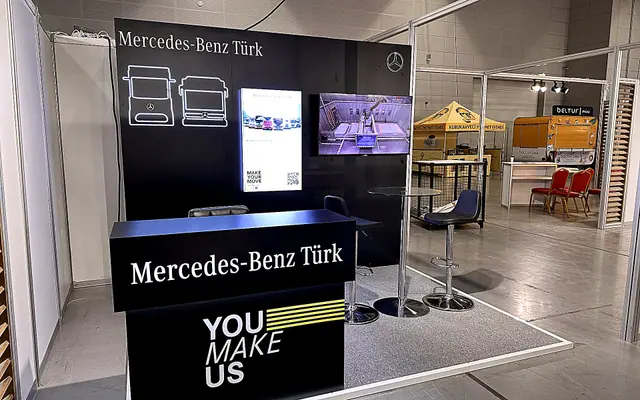
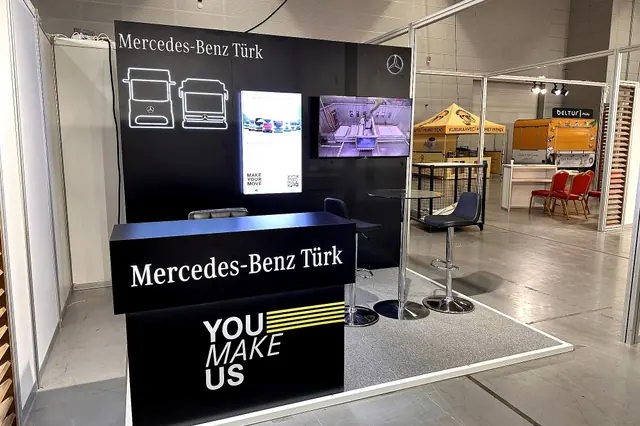
Dardanel ve Mercedes fotograflari yenilendi: aciliş gunu Dardanel kareleri ve orijinal 12 MP Mercedes kareleri, hafif rotus

diff --git a/proje-mercedes.html b/proje-mercedes.html
@@ -47,15 +47,18 @@
           <div class="pp-main" data-pp-main>
             <picture><source type="image/webp" srcset="/assets/images/opt/mercedes-benz-hero-640.webp 640w, /assets/images/opt/mercedes-benz-hero-1024.webp 1024w, /assets/images/opt/mercedes-benz-hero-1600.webp 1600w" sizes="(min-width: 1024px) 70vw, 100vw"><img src="/assets/images/projects/mercedes-benz-hero.jpg" alt="Mercedes-Benz Türk — Özel Etkinlik ve Deneyim Standı" width="1920" height="1200" fetchpriority="high" decoding="async"></picture>
           </div>
-          <div class="pp-thumbs" style="--n:3" role="group" aria-label="Proje görselleri">
+          <div class="pp-thumbs" style="--n:4" role="group" aria-label="Proje görselleri">
             <button type="button" class="pp-thumb" data-pp-thumb aria-label="Görsel 1: Mercedes-Benz Türk — Özel Etkinlik ve Deneyim Standı" aria-pressed="true" data-src="/assets/images/projects/mercedes-benz-hero.jpg" data-alt="Mercedes-Benz Türk — Özel Etkinlik ve Deneyim Standı" data-index="01">
               <picture><source type="image/webp" srcset="/assets/images/opt/mercedes-benz-hero-640.webp 640w, /assets/images/opt/mercedes-benz-hero-1024.webp 1024w, /assets/images/opt/mercedes-benz-hero-1600.webp 1600w" sizes="(min-width: 1024px) 15vw, 25vw"><img src="/assets/images/projects/mercedes-benz-hero.jpg" alt="" width="1920" height="1200" loading="lazy" decoding="async"></picture>
             </button>
-            <button type="button" class="pp-thumb" data-pp-thumb aria-label="Görsel 2: Özel İmalat Danışma ve Görüşme Bankoları" aria-pressed="false" data-src="/assets/images/projects/mercedes-benz-gallery-2.jpg" data-alt="Özel İmalat Danışma ve Görüşme Bankoları" data-index="02">
+            <button type="button" class="pp-thumb" data-pp-thumb aria-label="Görsel 2: Mercedes-Benz Türk standı, karşılama bankosu" aria-pressed="false" data-src="/assets/images/projects/mercedes-benz-gallery-2.jpg" data-alt="Mercedes-Benz Türk standı, karşılama bankosu" data-index="02">
               <picture><source type="image/webp" srcset="/assets/images/opt/mercedes-benz-gallery-2-640.webp 640w, /assets/images/opt/mercedes-benz-gallery-2-1024.webp 1024w, /assets/images/opt/mercedes-benz-gallery-2-1600.webp 1600w" sizes="(min-width: 1024px) 20vw, 33vw"><img src="/assets/images/projects/mercedes-benz-gallery-2.jpg" alt="" width="1920" height="1200" loading="lazy" decoding="async"></picture>
             </button>
-            <button type="button" class="pp-thumb" data-pp-thumb aria-label="Görsel 3: Akustik Bölme ve Mimari Aydınlatma Detayları" aria-pressed="false" data-src="/assets/images/projects/mercedes-benz-gallery-3.jpg" data-alt="Akustik Bölme ve Mimari Aydınlatma Detayları" data-index="03">
+            <button type="button" class="pp-thumb" data-pp-thumb aria-label="Görsel 3: Mercedes-Benz Türk standı, yan görünüm" aria-pressed="false" data-src="/assets/images/projects/mercedes-benz-gallery-3.jpg" data-alt="Mercedes-Benz Türk standı, yan görünüm" data-index="03">
               <picture><source type="image/webp" srcset="/assets/images/opt/mercedes-benz-gallery-3-640.webp 640w, /assets/images/opt/mercedes-benz-gallery-3-1024.webp 1024w, /assets/images/opt/mercedes-benz-gallery-3-1600.webp 1600w" sizes="(min-width: 1024px) 20vw, 33vw"><img src="/assets/images/projects/mercedes-benz-gallery-3.jpg" alt="" width="1920" height="1200" loading="lazy" decoding="async"></picture>
+            </button>
+            <button type="button" class="pp-thumb" data-pp-thumb aria-label="Görsel 4: Mercedes-Benz Türk standı, önden görünüm" aria-pressed="false" data-src="/assets/images/projects/mercedes-benz-gallery-4.jpg" data-alt="Mercedes-Benz Türk standı, önden görünüm" data-index="04">
+              <picture><source type="image/webp" srcset="/assets/images/opt/mercedes-benz-gallery-4-640.webp 640w, /assets/images/opt/mercedes-benz-gallery-4-1024.webp 1024w, /assets/images/opt/mercedes-benz-gallery-4-1600.webp 1600w" sizes="(min-width: 1024px) 20vw, 33vw"><img src="/assets/images/projects/mercedes-benz-gallery-4.jpg" alt="" width="1920" height="1200" loading="lazy" decoding="async"></picture>
             </button>
           </div>
           <div class="pp-cta">

diff --git a/proje-dardanel.html b/proje-dardanel.html
@@ -47,15 +47,18 @@
           <div class="pp-main" data-pp-main>
             <picture><source type="image/webp" srcset="/assets/images/opt/dardanel-gallery-3-640.webp 640w, /assets/images/opt/dardanel-gallery-3-1024.webp 1024w, /assets/images/opt/dardanel-gallery-3-1600.webp 1600w" sizes="(min-width: 1024px) 70vw, 100vw"><img src="/assets/images/projects/dardanel-gallery-3.jpg" alt="Dardanel — WorldFood Fuar Standı &amp; Tadım İstasyonu" width="1920" height="1200" fetchpriority="high" decoding="async"></picture>
           </div>
-          <div class="pp-thumbs" style="--n:3" role="group" aria-label="Proje görselleri">
+          <div class="pp-thumbs" style="--n:4" role="group" aria-label="Proje görselleri">
             <button type="button" class="pp-thumb" data-pp-thumb aria-label="Görsel 1: Dardanel — WorldFood Fuar Standı &amp; Tadım İstasyonu" aria-pressed="true" data-src="/assets/images/projects/dardanel-gallery-3.jpg" data-alt="Dardanel — WorldFood Fuar Standı &amp; Tadım İstasyonu" data-index="01">
               <picture><source type="image/webp" srcset="/assets/images/opt/dardanel-gallery-3-640.webp 640w, /assets/images/opt/dardanel-gallery-3-1024.webp 1024w, /assets/images/opt/dardanel-gallery-3-1600.webp 1600w" sizes="(min-width: 1024px) 15vw, 25vw"><img src="/assets/images/projects/dardanel-gallery-3.jpg" alt="" width="1920" height="1200" loading="lazy" decoding="async"></picture>
             </button>
-            <button type="button" class="pp-thumb" data-pp-thumb aria-label="Görsel 2: Işıklı Pleksi Teşhir Duvarları" aria-pressed="false" data-src="/assets/images/projects/dardanel-gallery-2.jpg" data-alt="Işıklı Pleksi Teşhir Duvarları" data-index="02">
+            <button type="button" class="pp-thumb" data-pp-thumb aria-label="Görsel 2: Dardanel standı, karşılama bankosu ve oturma alanı" aria-pressed="false" data-src="/assets/images/projects/dardanel-gallery-2.jpg" data-alt="Dardanel standı, karşılama bankosu ve oturma alanı" data-index="02">
               <picture><source type="image/webp" srcset="/assets/images/opt/dardanel-gallery-2-640.webp 640w, /assets/images/opt/dardanel-gallery-2-1024.webp 1024w, /assets/images/opt/dardanel-gallery-2-1600.webp 1600w" sizes="(min-width: 1024px) 20vw, 33vw"><img src="/assets/images/projects/dardanel-gallery-2.jpg" alt="" width="1920" height="1200" loading="lazy" decoding="async"></picture>
             </button>
-            <button type="button" class="pp-thumb" data-pp-thumb aria-label="Görsel 3: Karşılama Bankosu ve Genel Görünüm" aria-pressed="false" data-src="/assets/images/projects/dardanel-gallery-4.jpg" data-alt="Karşılama Bankosu ve Genel Görünüm" data-index="03">
+            <button type="button" class="pp-thumb" data-pp-thumb aria-label="Görsel 3: Dardanel standı, köşe görünüm" aria-pressed="false" data-src="/assets/images/projects/dardanel-gallery-4.jpg" data-alt="Dardanel standı, köşe görünüm" data-index="03">
               <picture><source type="image/webp" srcset="/assets/images/opt/dardanel-gallery-4-640.webp 640w, /assets/images/opt/dardanel-gallery-4-1024.webp 1024w, /assets/images/opt/dardanel-gallery-4-1600.webp 1600w" sizes="(min-width: 1024px) 20vw, 33vw"><img src="/assets/images/projects/dardanel-gallery-4.jpg" alt="" width="1920" height="1200" loading="lazy" decoding="async"></picture>
+            </button>
+            <button type="button" class="pp-thumb" data-pp-thumb aria-label="Görsel 4: Dardanel standı, koridordan görünüm" aria-pressed="false" data-src="/assets/images/projects/dardanel-gallery-1.jpg" data-alt="Dardanel standı, koridordan görünüm" data-index="04">
+              <picture><source type="image/webp" srcset="/assets/images/opt/dardanel-gallery-1-640.webp 640w, /assets/images/opt/dardanel-gallery-1-1024.webp 1024w, /assets/images/opt/dardanel-gallery-1-1600.webp 1600w" sizes="(min-width: 1024px) 20vw, 33vw"><img src="/assets/images/projects/dardanel-gallery-1.jpg" alt="" width="1920" height="1200" loading="lazy" decoding="async"></picture>
             </button>
           </div>
           <div class="pp-cta">

diff --git a/src/js/projects.js b/src/js/projects.js
@@ -41,8 +41,9 @@ export const projectData = {
       { step: '03 / SAHA TESLİMİ', title: 'Eksiksiz Gastronomi Standı', desc: 'Havalandırma ve pişirme donanımları test edilerek açılış saatinde tam kapasite hazır hale getirildi.' }
     ],
     gallery: [
-      { src: '/assets/images/projects/dardanel-gallery-2.jpg', caption: 'Işıklı Pleksi Teşhir Duvarları' },
-      { src: '/assets/images/projects/dardanel-gallery-4.jpg', caption: 'Karşılama Bankosu ve Genel Görünüm' }
+      { src: '/assets/images/projects/dardanel-gallery-2.jpg', caption: 'Dardanel standı, karşılama bankosu ve oturma alanı' },
+      { src: '/assets/images/projects/dardanel-gallery-4.jpg', caption: 'Dardanel standı, köşe görünüm' },
+      { src: '/assets/images/projects/dardanel-gallery-1.jpg', caption: 'Dardanel standı, koridordan görünüm' }
     ]
   },
   mercedes: {
@@ -63,8 +64,9 @@ export const projectData = {
       { step: '03 / SAHA TESLİMİ', title: 'Hızlı ve Sessiz Kurulum', desc: 'Etkinlik mekanında gece vardiyasında kusursuz montaj tamamlanarak sabah lansmana hazır edildi.' }
     ],
     gallery: [
-      { src: '/assets/images/projects/mercedes-benz-gallery-2.jpg', caption: 'Özel İmalat Danışma ve Görüşme Bankoları' },
-      { src: '/assets/images/projects/mercedes-benz-gallery-3.jpg', caption: 'Akustik Bölme ve Mimari Aydınlatma Detayları' }
+      { src: '/assets/images/projects/mercedes-benz-gallery-2.jpg', caption: 'Mercedes-Benz Türk standı, karşılama bankosu' },
+      { src: '/assets/images/projects/mercedes-benz-gallery-3.jpg', caption: 'Mercedes-Benz Türk standı, yan görünüm' },
+      { src: '/assets/images/projects/mercedes-benz-gallery-4.jpg', caption: 'Mercedes-Benz Türk standı, önden görünüm' }
     ]
   }
 };

diff --git a/index.html b/index.html
@@ -81,7 +81,7 @@
         </a>
         <a class="cpanel" href="/proje-dardanel.html">
           <div class="cpanel__inner">
-            <div class="cpanel__media"><picture><source type="image/webp" srcset="/assets/images/opt/dardanel-gallery-4-640.webp 640w, /assets/images/opt/dardanel-gallery-4-1024.webp 1024w, /assets/images/opt/dardanel-gallery-4-1600.webp 1600w" sizes="100vw"><img src="/assets/images/projects/dardanel-gallery-4.jpg" alt="Dardanel standının kırmızı alınlıklı teşhir alanı" width="1920" height="1200" loading="lazy" decoding="async"></picture></div>
+            <div class="cpanel__media"><picture><source type="image/webp" srcset="/assets/images/opt/dardanel-gallery-4-640.webp 640w, /assets/images/opt/dardanel-gallery-4-1024.webp 1024w, /assets/images/opt/dardanel-gallery-4-1600.webp 1600w" sizes="100vw"><img src="/assets/images/projects/dardanel-gallery-4.jpg" alt="Dardanel fuar standı, WorldFood 2024" width="1920" height="1200" loading="lazy" decoding="async"></picture></div>
             <div class="cpanel__shade" aria-hidden="true"></div>
             <div class="wrap cpanel__content">
               <h3 class="cpanel__title">Dardanel</h3>

diff --git a/projeler.html b/projeler.html
@@ -82,7 +82,7 @@
             <div class="work-card__media">
               <picture>
                 <source type="image/webp" srcset="/assets/images/opt/dardanel-gallery-3-640.webp 640w, /assets/images/opt/dardanel-gallery-3-1024.webp 1024w, /assets/images/opt/dardanel-gallery-3-1600.webp 1600w" sizes="(min-width: 768px) 50vw, 100vw">
-                <img src="/assets/images/projects/dardanel-gallery-3.jpg" alt="Dardanel standının kırmızı alınlıklı teşhir alanı" width="1920" height="1200" loading="lazy" decoding="async">
+                <img src="/assets/images/projects/dardanel-gallery-3.jpg" alt="Dardanel fuar standı, WorldFood 2024" width="1920" height="1200" loading="lazy" decoding="async">
               </picture>
               <span class="work-card__open">Projeyi inceleyin</span>
             </div>
